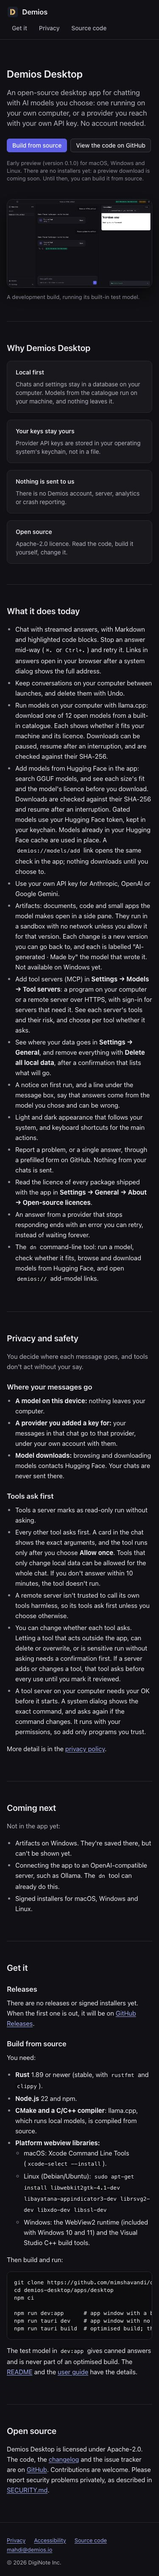
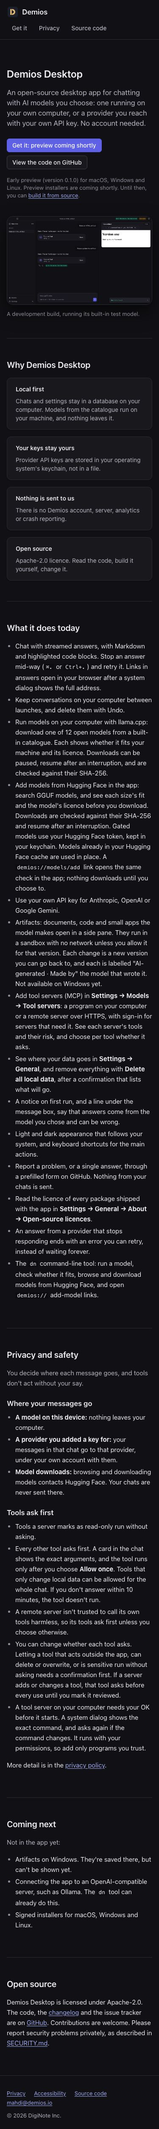
T-WEB-11: Get it is the installer page (coming-shortly state); build steps live in the README

Changed region(s): [[0.0293, 0.0, 0.968, 0.9996], [0.0293, 0.1249, 0.0587, 0.1562]]

diff --git a/site/download/index.html b/site/download/index.html
@@ -1,0 +1,152 @@
+<!doctype html>
+<html lang="en">
+<head>
+<meta charset="utf-8">
+<meta name="viewport" content="width=device-width, initial-scale=1">
+<meta http-equiv="Content-Security-Policy" content="default-src 'none'; script-src 'self'; style-src 'self'; img-src 'self'; base-uri 'none'; form-action 'none'">
+<title>Get Demios Desktop: preview installers</title>
+<meta name="description" content="Preview installers of Demios Desktop for macOS, Windows and Linux are coming shortly. They will be unsigned: here is how to check and open them.">
+<meta name="theme-color" content="#FAFAFB" media="(prefers-color-scheme: light)">
+<meta name="theme-color" content="#111115" media="(prefers-color-scheme: dark)">
+<meta name="color-scheme" content="light dark">
+<meta property="og:type" content="website">
+<meta property="og:site_name" content="Demios">
+<meta property="og:title" content="Get Demios Desktop: preview installers">
+<meta property="og:description" content="Unsigned preview installers for macOS, Windows and Linux, with their sizes and SHA-256 checksums. Coming shortly.">
+<meta property="og:url" content="https://demios.io/download/">
+<link rel="canonical" href="https://demios.io/download/">
+<link rel="icon" href="/favicon.png" type="image/png" sizes="32x32">
+<link rel="apple-touch-icon" href="/assets/icon-128.png">
+<link rel="stylesheet" href="/assets/tokens.css">
+<link rel="stylesheet" href="/assets/site.css">
+<script src="/assets/download.js" defer></script>
+</head>
+<body>
+<a class="skip-link" href="#main">Skip to content</a>
+<header class="site-header">
+  <div class="wrap">
+    <a class="brand" href="/"><img src="/assets/icon-128.png" alt="" width="28" height="28">Demios</a>
+    <nav class="site-nav" aria-label="Main">
+      <ul>
+        <li><a href="/download/" aria-current="page">Get it</a></li>
+        <li><a href="/privacy/">Privacy</a></li>
+        <li><a href="https://github.com/mimshavandi/demios-desktop">Source code</a></li>
+      </ul>
+    </nav>
+  </div>
+</header>
+
+<main id="main" tabindex="-1">
+  <article class="doc wrap wrap-narrow">
+    <h1>Get Demios Desktop</h1>
+    <p class="meta">Preview release · version 0.1.0 · macOS, Windows and Linux</p>
+
+    <div class="callout callout-warning" role="note">
+      <p><strong>Preview installers are coming shortly.</strong> When they're out, each one is listed below with its size and SHA-256. They will be unsigned, so your system will warn you that it can't check who made the app. The steps for each system are below.</p>
+    </div>
+
+    <div id="for-you" class="for-you" hidden>
+      <h2 id="for-you-title">For your computer</h2>
+      <p id="for-you-text"></p>
+      <ul id="for-you-files" class="actions" role="list"></ul>
+    </div>
+
+    <h2 id="before">Before you install</h2>
+    <ul class="list">
+      <li>It's an early preview. Expect rough edges, and please <a href="https://github.com/mimshavandi/demios-desktop/issues">report problems</a>.</li>
+      <li>It doesn't update itself yet. To get a newer version, download it from this page and install it over the old one.</li>
+      <li>Signed versions from the app stores will replace the preview later. Moving to one needs one reinstall.</li>
+      <li>Artifacts (documents, code and small apps the model makes) don't work on Windows yet.</li>
+    </ul>
+
+    <section aria-labelledby="macos">
+      <h2 id="macos">macOS</h2>
+      <ul class="files">
+        <li class="file" data-os="macos" data-arch="arm">
+          <p class="file-title">Apple silicon (M1 and later) <span class="file-type">.dmg</span></p>
+          <p class="file-status"><span class="badge">Coming shortly</span></p>
+        </li>
+        <li class="file" data-os="macos" data-arch="x86">
+          <p class="file-title">Intel Macs <span class="file-type">.dmg</span></p>
+          <p class="file-status"><span class="badge">Coming shortly</span></p>
+        </li>
+      </ul>
+      <p>Not sure which Mac you have? Choose <strong>Apple menu → About This Mac</strong>. It says "Chip: Apple M…" on Apple silicon, and "Processor: … Intel" on an Intel Mac.</p>
+      <h3 id="macos-open">Opening it</h3>
+      <ol class="list">
+        <li>Open the <code>.dmg</code> and drag <strong>Demios Desktop</strong> to <strong>Applications</strong>.</li>
+        <li>Open Demios Desktop. macOS says it can't check the app, and won't open it.</li>
+        <li><strong>On macOS 15 (Sequoia) and later:</strong> go to <strong>System Settings → Privacy &amp; Security</strong>, scroll down to the message about Demios Desktop, and select <strong>Open Anyway</strong>. Confirm with your password.</li>
+        <li><strong>On older macOS:</strong> in Applications, Control-click (or right-click) Demios Desktop, choose <strong>Open</strong>, then select <strong>Open</strong> again.</li>
+      </ol>
+      <p>You only need to do this once.</p>
+    </section>
+
+    <section aria-labelledby="windows">
+      <h2 id="windows">Windows</h2>
+      <ul class="files">
+        <li class="file" data-os="windows" data-primary>
+          <p class="file-title">Windows 10 and 11, 64-bit: installer <span class="file-type">.exe</span></p>
+          <p class="file-status"><span class="badge">Coming shortly</span></p>
+        </li>
+        <li class="file" data-os="windows">
+          <p class="file-title">Windows 10 and 11, 64-bit: MSI package <span class="file-type">.msi</span></p>
+          <p class="file-status"><span class="badge">Coming shortly</span></p>
+        </li>
+      </ul>
+      <p>Most people want the <code>.exe</code> installer. The <code>.msi</code> is for managed computers.</p>
+      <h3 id="windows-open">Opening it</h3>
+      <ol class="list">
+        <li>Open the file you downloaded.</li>
+        <li>Windows shows <strong>"Windows protected your PC"</strong>. Select <strong>More info</strong>, then <strong>Run anyway</strong>.</li>
+        <li>Follow the installer.</li>
+      </ol>
+    </section>
+
+    <section aria-labelledby="linux">
+      <h2 id="linux">Linux</h2>
+      <ul class="files">
+        <li class="file" data-os="linux" data-primary>
+          <p class="file-title">Most distributions, 64-bit <span class="file-type">.AppImage</span></p>
+          <p class="file-status"><span class="badge">Coming shortly</span></p>
+        </li>
+        <li class="file" data-os="linux">
+          <p class="file-title">Debian and Ubuntu, 64-bit <span class="file-type">.deb</span></p>
+          <p class="file-status"><span class="badge">Coming shortly</span></p>
+        </li>
+      </ul>
+      <h3 id="linux-open">Opening it</h3>
+      <p><strong>AppImage:</strong> make it executable, then run it.</p>
+<pre><code>chmod +x Demios*.AppImage
+./Demios*.AppImage</code></pre>
+      <p><strong>.deb:</strong> install it with apt. Keep the <code>./</code> so apt uses the file.</p>
+<pre><code>sudo apt install ./Demios*.deb</code></pre>
+    </section>
+
+    <h2 id="check">Check your download</h2>
+    <p>Each installer will be listed here with its SHA-256, and the release will include a <code>SHA256SUMS.txt</code> file. Compare the SHA-256 of your file with them. If they differ, don't open the file.</p>
+    <ul class="list">
+      <li>macOS: <code>shasum -a 256 Demios*.dmg</code></li>
+      <li>Windows (PowerShell): <code>Get-FileHash .\Demios*.exe</code></li>
+      <li>Linux, in the folder with your download and <code>SHA256SUMS.txt</code>: <code>sha256sum --check --ignore-missing SHA256SUMS.txt</code></li>
+    </ul>
+
+    <h2 id="where">Where the files come from</h2>
+    <p>The installers are built from the public source code and published on <a href="https://github.com/mimshavandi/demios-desktop/releases">GitHub Releases</a>. Downloads come from GitHub, not from demios.io. See <a href="/privacy/#website">the privacy policy</a> for what that means.</p>
+    <p>To build the app yourself, follow the <a href="https://github.com/mimshavandi/demios-desktop#install">build steps in the README</a>.</p>
+  </article>
+</main>
+
+<footer class="site-footer">
+  <div class="wrap">
+    <ul>
+      <li><a href="/privacy/">Privacy</a></li>
+      <li><a href="/accessibility/">Accessibility</a></li>
+      <li><a href="https://github.com/mimshavandi/demios-desktop">Source code</a></li>
+      <li><a href="mailto:mahdi@demios.io">mahdi@demios.io</a></li>
+    </ul>
+    <p>© 2026 DigiNote Inc.</p>
+  </div>
+</footer>
+</body>
+</html>

diff --git a/site/index.html b/site/index.html
@@ -26,7 +26,7 @@
     <a class="brand" href="/"><img src="/assets/icon-128.png" alt="" width="28" height="28">Demios</a>
     <nav class="site-nav" aria-label="Main">
       <ul>
-        <li><a href="#get-it">Get it</a></li>
+        <li><a href="/download/">Get it</a></li>
         <li><a href="/privacy/">Privacy</a></li>
         <li><a href="https://github.com/mimshavandi/demios-desktop">Source code</a></li>
       </ul>
@@ -41,10 +41,10 @@
         <h1 id="hero-title">Demios Desktop</h1>
         <p class="hero-text">An open-source desktop app for chatting with AI models you choose: one running on your own computer, or a provider you reach with your own API key. No account needed.</p>
         <div class="actions">
-          <a class="button button-primary" href="#get-it">Build from source</a>
+          <a class="button button-primary" href="/download/">Get it: preview coming shortly</a>
           <a class="button button-secondary" href="https://github.com/mimshavandi/demios-desktop">View the code on GitHub</a>
         </div>
-        <p class="status-note">Early preview (version 0.1.0) for macOS, Windows and Linux. There are no installers yet: a preview download is coming soon. Until then, you can build it from source.</p>
+        <p class="status-note">Early preview (version 0.1.0) for macOS, Windows and Linux. Preview installers are coming shortly. Until then, you can <a href="https://github.com/mimshavandi/demios-desktop#install">build it from source</a>.</p>
       </div>
       <figure class="hero-shot">
         <picture>
@@ -125,36 +125,6 @@
         <li>Connecting the app to an OpenAI-compatible server, such as Ollama. The <code>dn</code> tool can already do this.</li>
         <li>Signed installers for macOS, Windows and Linux.</li>
       </ul>
-    </section>
-
-    <section class="section" aria-labelledby="get-it">
-      <h2 id="get-it" tabindex="-1">Get it</h2>
-      <h3>Releases</h3>
-      <p>There are no releases or signed installers yet. When the first one is out, it will be on <a href="https://github.com/mimshavandi/demios-desktop/releases">GitHub Releases</a>.</p>
-
-      <h3>Build from source</h3>
-      <p>You need:</p>
-      <ul class="list">
-        <li><strong>Rust</strong> 1.89 or newer (stable, with <code>rustfmt</code> and <code>clippy</code>).</li>
-        <li><strong>Node.js</strong> 22 and npm.</li>
-        <li><strong>CMake and a C/C++ compiler</strong>: llama.cpp, which runs local models, is compiled from source.</li>
-        <li><strong>Platform webview libraries:</strong>
-          <ul class="list">
-            <li>macOS: Xcode Command Line Tools (<code>xcode-select --install</code>).</li>
-            <li>Linux (Debian/Ubuntu): <code>sudo apt-get install libwebkit2gtk-4.1-dev libayatana-appindicator3-dev librsvg2-dev libxdo-dev libssl-dev</code></li>
-            <li>Windows: the WebView2 runtime (included with Windows 10 and 11) and the Visual Studio C++ build tools.</li>
-          </ul>
-        </li>
-      </ul>
-      <p>Then build and run:</p>
-<pre><code>git clone https://github.com/mimshavandi/demios-desktop.git
-cd demios-desktop/apps/desktop
-npm ci
-
-npm run dev:app      # app window with a built-in test model, no key or download needed
-npm run tauri dev    # app window with no model: connect one in Settings
-npm run tauri build  # optimised build; the output is in target/release/bundle</code></pre>
-      <p>The test model in <code>dev:app</code> gives canned answers and is never part of an optimised build. The <a href="https://github.com/mimshavandi/demios-desktop#readme">README</a> and the <a href="https://github.com/mimshavandi/demios-desktop/tree/main/docs/user">user guide</a> have the details.</p>
     </section>
 
     <section class="section" aria-labelledby="open-source">

diff --git a/site/assets/download.js b/site/assets/download.js
@@ -1,0 +1,71 @@
+// demios.io download page: points the visitor to the installer for their computer.
+// Progressive enhancement only: every installer is listed in the page without this script.
+// It runs in the browser, reads only navigator, and sends nothing anywhere.
+// While the preview isn't out, files have no link yet; the box then says so instead of
+// offering a download.
+(function () {
+  "use strict";
+  var nav = window.navigator;
+  var ua = nav.userAgent || "";
+  var platform = (nav.userAgentData && nav.userAgentData.platform) || nav.platform || "";
+
+  // Phones and tablets get no suggestion (iPadOS reports itself as a Mac).
+  if (/iPhone|iPad|iPod|Android/i.test(ua) || (/Mac/i.test(platform) && nav.maxTouchPoints > 1)) return;
+
+  var os = /Mac/i.test(platform) ? "macos"
+    : /Win/i.test(platform) ? "windows"
+    : /Linux|X11/i.test(platform) ? "linux"
+    : null;
+  if (!os) return;
+
+  var names = { macos: "macOS", windows: "Windows", linux: "Linux" };
+
+  function show(arch) {
+    var files = Array.prototype.slice.call(document.querySelectorAll('.file[data-os="' + os + '"]'));
+    var pick = files.filter(function (f) {
+      return os === "macos" ? (!arch || f.getAttribute("data-arch") === arch) : f.hasAttribute("data-primary");
+    });
+    if (pick.length) files = pick;
+    if (!files.length) return;
+
+    var list = document.getElementById("for-you-files");
+    var linked = 0;
+    files.forEach(function (f) {
+      f.classList.add("file-suggested");
+      var link = f.querySelector("a.file-name");
+      if (!link) return;
+      linked++;
+      var a = document.createElement("a");
+      a.className = "button button-primary";
+      a.href = link.href;
+      var size = f.querySelector(".file-size");
+      a.textContent = "Download for " + f.querySelector(".file-title").firstChild.textContent.split(":")[0].trim() +
+        (size ? " (" + size.textContent + ")" : "");
+      var li = document.createElement("li");
+      li.appendChild(a);
+      list.appendChild(li);
+    });
+    if (!linked) list.hidden = true;
+
+    var p = document.getElementById("for-you-text");
+    var text = "This looks like a " + names[os] + " computer. ";
+    if (!linked) text += "The " + names[os] + " installers are coming shortly. ";
+    else if (os === "macos" && !arch) text += "Pick the file for your Mac's chip. ";
+    p.textContent = text;
+    var more = document.createElement("a");
+    more.href = "#" + os + "-open";
+    more.textContent = "How to open it on " + names[os];
+    p.appendChild(more);
+
+    document.getElementById("for-you").hidden = false;
+  }
+
+  // Chromium browsers can tell Apple silicon from Intel; Safari and Firefox can't, so both Mac files show.
+  if (os === "macos" && nav.userAgentData && nav.userAgentData.getHighEntropyValues) {
+    nav.userAgentData.getHighEntropyValues(["architecture"]).then(function (v) {
+      show(v.architecture === "arm" ? "arm" : v.architecture === "x86" ? "x86" : null);
+    }, function () { show(null); });
+  } else {
+    show(null);
+  }
+})();

diff --git a/site/assets/site.css b/site/assets/site.css
@@ -29,6 +29,7 @@ body {
 }
 
 img { max-width: 100%; height: auto; }
+[hidden] { display: none !important; }
 
 a { color: var(--dn-color-accent-text); text-underline-offset: 0.15em; }
 a:hover { text-decoration-thickness: 2px; }
@@ -241,6 +242,50 @@ th { font-weight: var(--dn-weight-semibold); }
 thead th { border-bottom-color: var(--dn-color-border-strong); }
 caption { text-align: left; color: var(--dn-color-text-muted); padding-bottom: var(--dn-space-2); }
 
+/* Get it page: one card per installer. */
+.files { list-style: none; margin: 0 0 var(--dn-space-4); padding: 0; display: grid; gap: var(--dn-space-3); }
+.files > li + li { margin-top: 0; }
+.file {
+  display: flex;
+  flex-wrap: wrap;
+  align-items: center;
+  justify-content: space-between;
+  gap: var(--dn-space-2) var(--dn-space-4);
+  background: var(--dn-color-surface);
+  border: 1px solid var(--dn-color-border);
+  border-radius: var(--dn-radius-lg);
+  padding: var(--dn-space-3) var(--dn-space-4);
+  font-size: var(--dn-text-base);
+  line-height: var(--dn-leading-base);
+}
+.file p { margin: 0; }
+.file-title { font-weight: var(--dn-weight-medium); }
+.file-type { font-family: var(--dn-font-mono); font-size: var(--dn-text-sm); color: var(--dn-color-text-subtle); font-weight: var(--dn-weight-regular); }
+.file-name { font-weight: var(--dn-weight-semibold); overflow-wrap: anywhere; }
+.file dl { flex-basis: 100%; display: grid; grid-template-columns: max-content 1fr; gap: var(--dn-space-1) var(--dn-space-4); margin: 0; font-size: var(--dn-text-sm); line-height: var(--dn-leading-sm); }
+.file dt { color: var(--dn-color-text-muted); }
+.file dd { margin: 0; min-width: 0; }
+.file-suggested { border-color: var(--dn-color-accent); border-left-width: var(--dn-space-1); padding-left: calc(var(--dn-space-4) - var(--dn-space-1) + 1px); }
+.hash { word-break: break-all; }
+.badge {
+  display: inline-flex;
+  align-items: center;
+  padding: 0 var(--dn-space-2);
+  border-radius: var(--dn-radius-full);
+  border: 1px solid var(--dn-color-border);
+  background: var(--dn-color-surface-sunken);
+  color: var(--dn-color-text-muted);
+  font-size: var(--dn-text-xs);
+  line-height: var(--dn-leading-xs);
+  white-space: nowrap;
+}
+.for-you { border: 1px solid var(--dn-color-accent); border-radius: var(--dn-radius-lg); padding: var(--dn-space-4) var(--dn-space-5); margin: 0 0 var(--dn-space-6); }
+.doc .for-you h2 { margin-top: 0; }
+.for-you p:last-child { margin-bottom: 0; }
+ul.actions { list-style: none; padding: 0; }
+ul.actions > li + li { margin-top: 0; }
+.doc ol.list { padding-left: var(--dn-space-6); }
+
 /* Reading pages */
 .doc { padding-top: var(--dn-space-12); padding-bottom: var(--dn-space-12); }
 .doc h2 { margin-top: var(--dn-space-10); }
@@ -263,5 +308,5 @@ caption { text-align: left; color: var(--dn-color-text-muted); padding-bottom: v
 }
 
 @media (forced-colors: active) {
-  .button, .card, .callout, .site-nav a { border: 1px solid CanvasText; }
+  .button, .card, .callout, .site-nav a, .file, .badge { border: 1px solid CanvasText; }
 }

diff --git a/site/privacy/index.html b/site/privacy/index.html
@@ -26,7 +26,7 @@
     <a class="brand" href="/"><img src="/assets/icon-128.png" alt="" width="28" height="28">Demios</a>
     <nav class="site-nav" aria-label="Main">
       <ul>
-        <li><a href="/#get-it">Get it</a></li>
+        <li><a href="/download/">Get it</a></li>
         <li><a href="/privacy/" aria-current="page">Privacy</a></li>
         <li><a href="https://github.com/mimshavandi/demios-desktop">Source code</a></li>
       </ul>
@@ -217,7 +217,9 @@
     </address>
 
     <h2 id="website">This website</h2>
-    <p>demios.io sets no cookies, runs no scripts, and has no analytics, trackers or embedded content. Every file it loads (pages, styles and icons) comes from demios.io itself; nothing is loaded from anyone else. Links to other sites, such as GitHub, only take you there when you select them.</p>
+    <p>demios.io sets no cookies and has no analytics, trackers or embedded content. Every file it loads (pages, styles, icons, images and one script) comes from demios.io itself; nothing is loaded from anyone else. Links to other sites, such as GitHub, only take you there when you select them.</p>
+    <p>The only script is on the <a href="/download/">Get it page</a>. It reads which system your browser reports, to point you to the right installer, and sends nothing anywhere. The page lists every installer without it.</p>
+    <p><strong>Downloads:</strong> the installers are served by GitHub, not by demios.io. When you download one, your browser connects to <code>github.com</code>, which sends it on to <code>release-assets.githubusercontent.com</code>. GitHub sees your IP address, the file you ask for, and standard request headers, under <a href="https://docs.github.com/en/site-policy/privacy-policies/github-general-privacy-statement">GitHub's privacy statement</a>. No GitHub account is needed.</p>
     <p>The site is hosted on GitHub Pages. Like any web server, GitHub receives your IP address and standard request headers when you visit, under <a href="https://docs.github.com/en/site-policy/privacy-policies/github-general-privacy-statement">GitHub's privacy statement</a>. We don't receive or keep visitor logs.</p>
 
     <h2 id="changes">Changes to this policy</h2>

diff --git a/site/accessibility/index.html b/site/accessibility/index.html
@@ -26,7 +26,7 @@
     <a class="brand" href="/"><img src="/assets/icon-128.png" alt="" width="28" height="28">Demios</a>
     <nav class="site-nav" aria-label="Main">
       <ul>
-        <li><a href="/#get-it">Get it</a></li>
+        <li><a href="/download/">Get it</a></li>
         <li><a href="/privacy/">Privacy</a></li>
         <li><a href="https://github.com/mimshavandi/demios-desktop">Source code</a></li>
       </ul>
@@ -91,7 +91,7 @@
     </ul>
 
     <h2 id="website">This website</h2>
-    <p>demios.io aims for WCAG 2.2 level AA too. It is plain HTML and CSS with no scripts. Each page has a skip link, landmarks and headings in order, a visible focus outline, and text alternatives for images. It follows your system's light or dark setting with the app's colours, turns off animation when you ask for reduced motion, and works at 200% zoom and on screens 320 pixels wide without scrolling sideways. Before each change goes live, an automated check validates the HTML and every link between its pages.</p>
+    <p>demios.io aims for WCAG 2.2 level AA too. It is plain HTML and CSS. The Get it page has one small script that points you to the installer for your system; every installer is listed without it. Each page has a skip link, landmarks and headings in order, a visible focus outline, and text alternatives for images. It follows your system's light or dark setting with the app's colours, turns off animation when you ask for reduced motion, and works at 200% zoom and on screens 320 pixels wide without scrolling sideways. Before each change goes live, an automated check validates the HTML and every link between its pages.</p>
     <p>Not checked yet on the website: a full screen-reader pass.</p>
 
     <h2 id="report">Report a problem</h2>

diff --git a/site/404.html b/site/404.html
@@ -22,7 +22,7 @@
     <a class="brand" href="/"><img src="/assets/icon-128.png" alt="" width="28" height="28">Demios</a>
     <nav class="site-nav" aria-label="Main">
       <ul>
-        <li><a href="/#get-it">Get it</a></li>
+        <li><a href="/download/">Get it</a></li>
         <li><a href="/privacy/">Privacy</a></li>
         <li><a href="https://github.com/mimshavandi/demios-desktop">Source code</a></li>
       </ul>
